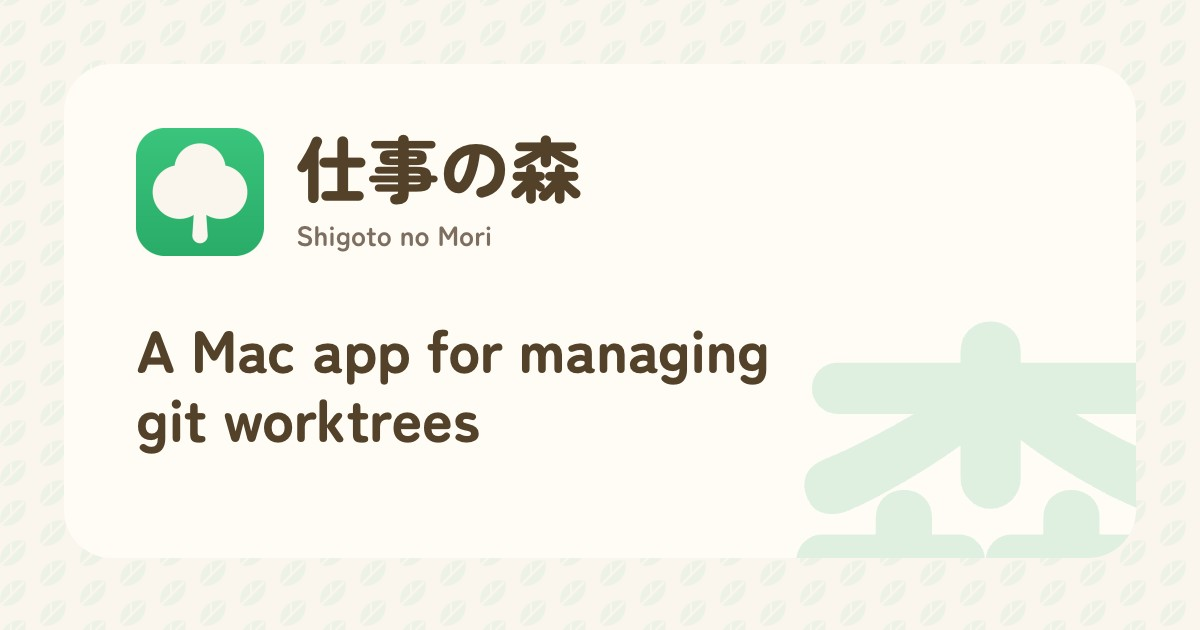
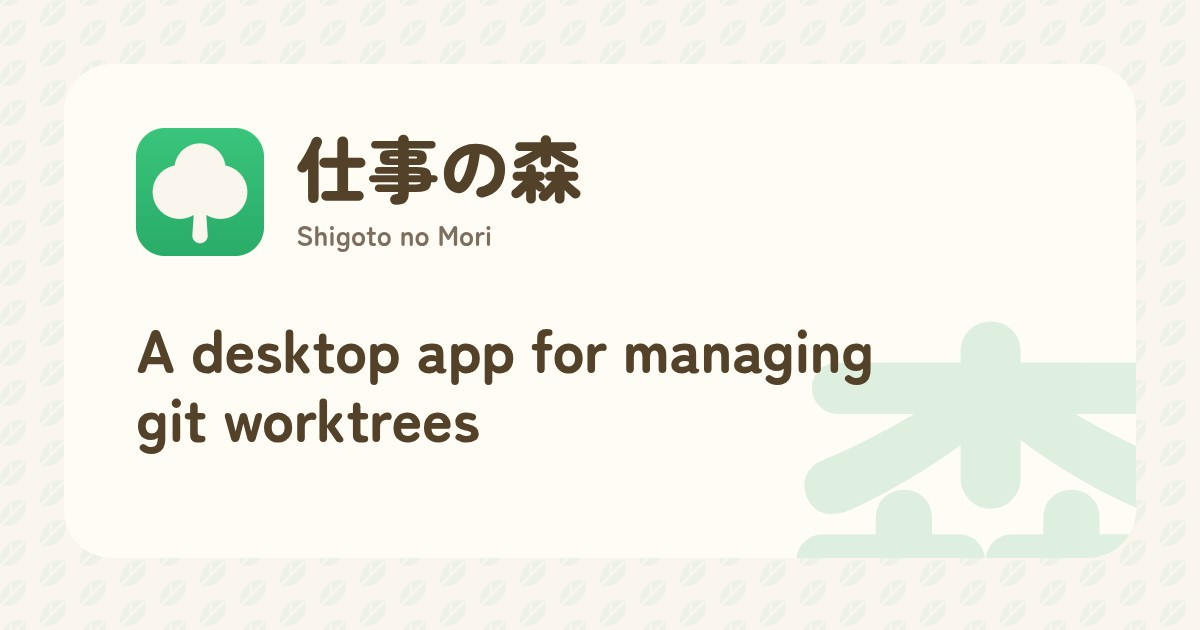
Offer the Windows build on the site (#1449)
## Description

The site offers the Windows installer as a first-class download. A small
script marks the visitor's platform before first paint (Windows on
Windows, the Mac anywhere else), so the hero, the closing band and the
nav show that platform's button and note, with a link to the other one.
Each link resolves to its own asset in the latest release. Windows
visitors also see one line on getting past SmartScreen, since the
installer is unsigned, and the launch shortcuts show Ctrl+1…9 instead of
⌘1…9.

Copy that read as Mac-only now says "machine", the title, description
and link preview name both platforms, and the limits card says what is
true today, Linux included.

Before, Windows, Mac:

![Hero, desktop
light](https://github.com/user-attachments/assets/6da34ca4-d810-44e2-bf67-af082c0112db)
![Hero, phone
dark](https://github.com/user-attachments/assets/447ef5cd-31b1-4d29-a60c-4cc909813866)

![Limits card, before and
after](https://github.com/user-attachments/assets/c849744e-8d9a-4358-b9f4-2a33495f3649)
![Launch shortcuts, before and after on
Windows](https://github.com/user-attachments/assets/8cebbe9e-2008-4617-a5a5-9a89ccdb191a)

Changed region(s): [[0.1542, 0.5127, 0.74, 0.6333], [0.3392, 0.6635, 0.37, 0.6937], [0.3083, 0.2714, 0.3392, 0.3016]]

diff --git a/marketing/src/scripts/download.ts b/marketing/src/scripts/download.ts
@@ -1,23 +1,31 @@
-// Point every download button straight at the latest release's dmg.
-// The asset name carries the version, so there is no fixed URL for it.
-// Ask GitHub which one is current. Until this resolves, or if it fails,
-// the buttons keep their fallback: the latest release's page.
+// Point every download link straight at its platform's file in the
+// latest release: its own (data-download="mac"), or with no value, the
+// visitor's. The asset names carry the version, so there is no fixed
+// URL for them. Ask GitHub which ones are current. Until this resolves,
+// or if it fails, the links keep their fallback: the latest release's
+// page.
 import { REPO_SLUG } from "../site";
+
+// Each platform's file, by the name release.yml gives it.
+const ASSET = { mac: "-macOS-arm64-", windows: "-Windows-x64-Setup-" };
 
 interface Release {
   assets?: { name: string; browser_download_url: string }[];
 }
 
-export function pointDownloadsAtLatestDmg(): void {
+export function pointDownloadsAtLatest(): void {
   fetch(`https://api.github.com/repos/${REPO_SLUG}/releases/latest`)
     .then((res) => res.json() as Promise<Release>)
     .then((release) => {
-      const dmg = release.assets?.find((asset) => asset.name.endsWith(".dmg"));
-      if (!dmg) return;
       for (const link of document.querySelectorAll<HTMLAnchorElement>(
         "[data-download]",
       )) {
-        link.href = dmg.browser_download_url;
+        const platform = (link.dataset.download ||
+          document.documentElement.dataset.platform) as keyof typeof ASSET;
+        const asset = release.assets?.find(({ name }) =>
+          name.includes(ASSET[platform]),
+        );
+        if (asset) link.href = asset.browser_download_url;
       }
     })
     .catch(() => {});

diff --git a/marketing/src/styles/global.css b/marketing/src/styles/global.css
@@ -611,6 +611,12 @@
     font-size: 0.88rem;
     color: var(--muted-foreground);
   }
+  /* What's for one platform shows for its visitors (platform.js), and
+     without it, the Mac's. */
+  :scope:not([data-platform="windows"]) [data-for="windows"],
+  :scope[data-platform="windows"] [data-for="mac"] {
+    display: none;
+  }
 
   /* --- Shared pieces -------------------------------------------------- */
 
@@ -1145,9 +1151,6 @@
   .closing-icon {
     margin: 0 auto 1.5rem;
     border-radius: 22px;
-  }
-  .closing h2 {
-    margin-bottom: 0.3rem;
   }
 
   /* --- Footer --------------------------------------------------------- */

diff --git a/marketing/src/site.ts b/marketing/src/site.ts
@@ -2,6 +2,6 @@
 export const REPO_SLUG = "sylophi/shigoto-no-mori";
 export const REPO = `https://github.com/${REPO_SLUG}`;
 export const RELEASES = `${REPO}/releases`;
-// The download buttons' fallback. scripts/download.ts swaps in the dmg.
+// The download links' fallback. scripts/download.ts swaps in the files.
 export const LATEST_RELEASE = `${RELEASES}/latest`;
 export const WEB_APP = "https://app.shigomori.com";

diff --git a/marketing/src/scripts/platform.js b/marketing/src/scripts/platform.js
@@ -1,0 +1,7 @@
+// The platform whose download the page offers first: Windows on
+// Windows, the Mac anywhere else. Windows is told by the test the app's
+// viewerOs uses (@shigomori/ui's platform.ts). Loaded blocking in <head>, so only
+// that platform's buttons and notes paint (global.css, [data-for]).
+document.documentElement.dataset.platform = navigator.platform.startsWith("Win")
+  ? "windows"
+  : "mac";

diff --git a/marketing/scripts/og.html b/marketing/scripts/og.html
@@ -100,7 +100,7 @@
             <div class="romaji">Shigoto no Mori</div>
           </div>
         </div>
-        <p class="tagline">A Mac app for managing<br />git worktrees</p>
+        <p class="tagline">A desktop app for managing<br />git worktrees</p>
         <span class="watermark">森</span>
       </div>
     </div>

diff --git a/marketing/README.md b/marketing/README.md
@@ -46,9 +46,12 @@ Astro preset and the install command, and holds the headers.
   - `theme.js` sets light or dark before first paint and runs the
     toggle, on the page and on the frames that follow it. It loads as
     a blocking script, under a hashed name.
+  - `platform.js` marks the visitor's platform before first paint,
+    Windows or else the Mac, and only that platform's download buttons
+    and notes show. It loads the way `theme.js` does.
   - `frames.ts` turns the live frames into the app near the screen.
-  - `download.ts` points the download buttons at the latest release's
-    dmg.
+  - `download.ts` points the download links at the latest release's
+    dmg or installer.
   - `wallpaper.ts` pauses the wallpaper of bands that are off screen.
 - `scripts/og.html` is the link preview card, and `scripts/og.mts`
   renders it (below).
